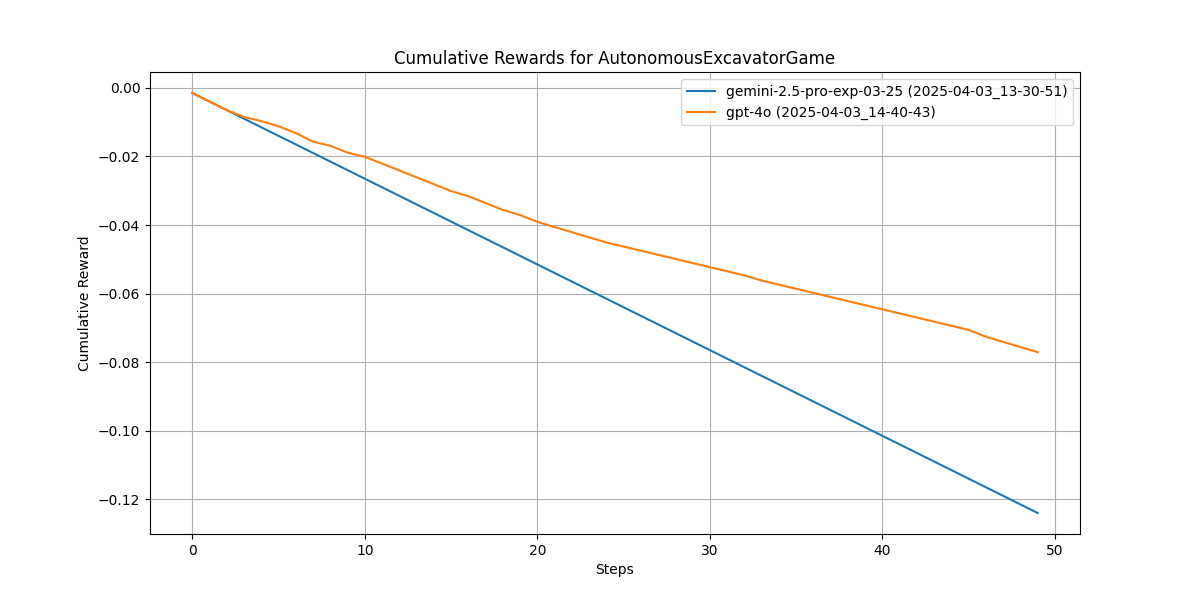
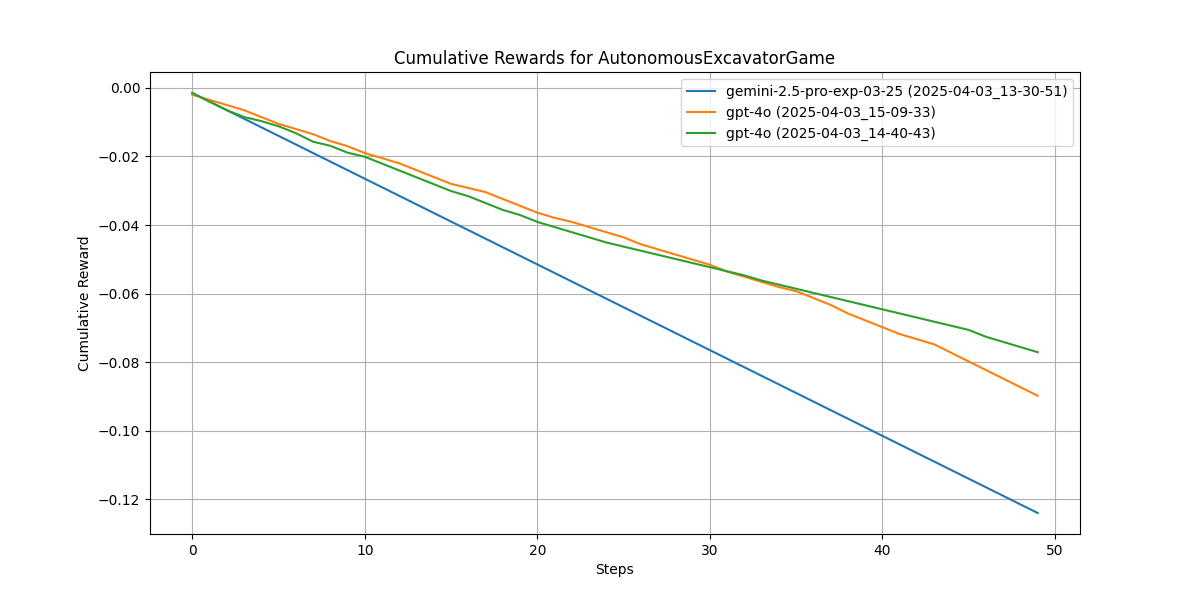
new prompt

diff --git a/terra/viz/main_manual_llm.py b/terra/viz/main_manual_llm.py
@@ -35,7 +35,7 @@ def run_experiment(model_name, model_key, num_timesteps):
         None
     """
     # Load the JSON configuration file
-    with open("envs11.json", "r") as file:
+    with open("envs12.json", "r") as file:
         game_instructions = json.load(file)
 
     # Define the environment name for the Autonomous Excavator Game
